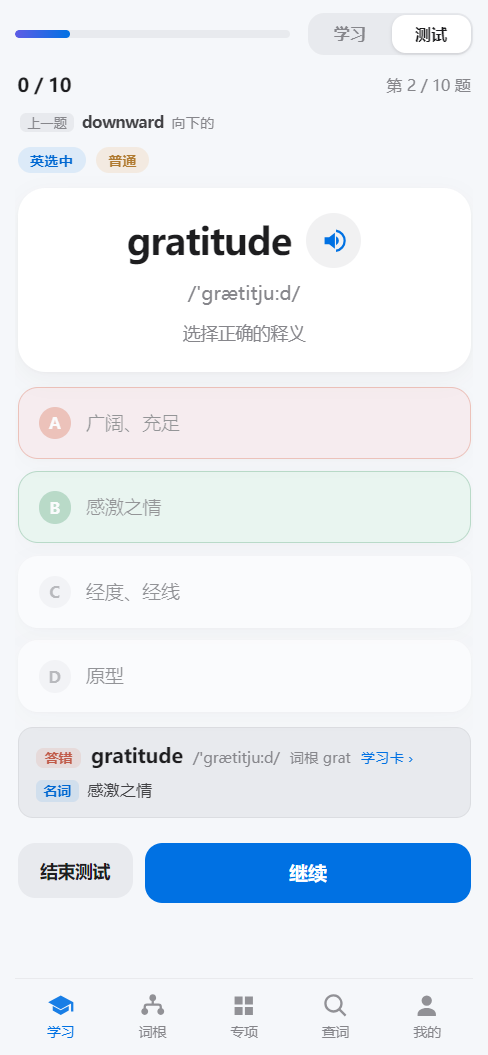
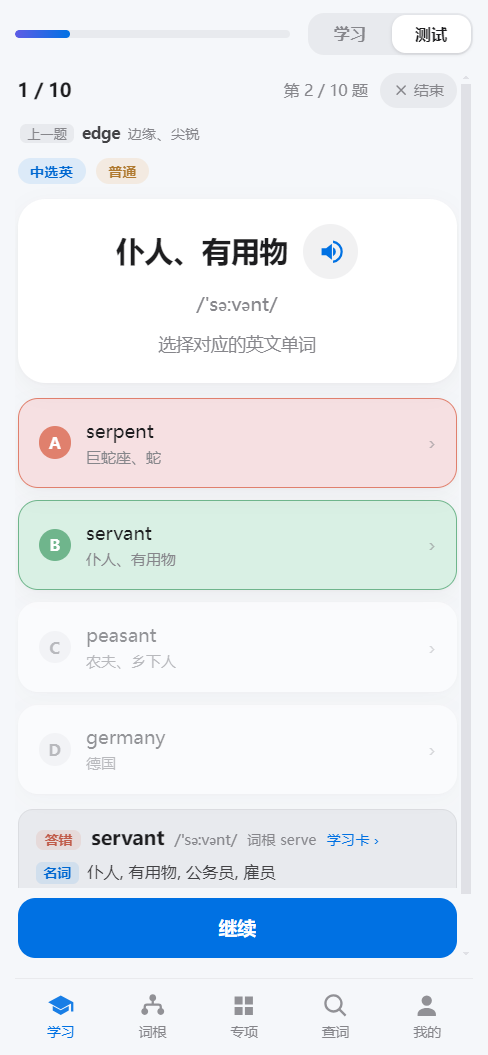
Document provider picker and quiz exit redesign

diff --git a/DEVELOPMENT.md b/DEVELOPMENT.md
@@ -606,6 +606,18 @@
 
 **交付**：`android-28`（target `7df96ee`，CI run 43419414001 成功，Range 复核 `com.glance.app` / `versionCode 28` / `versionName 1.0.6+28`，证书 SHA-256 `82:F7:…:C9:AF`，APK 13,169,840 字节）。
 
+### 8.19 词典服务商选择器与测试结束按钮重做 ✅
+
+**问题**：`我的 → 词典 → 服务商` 仍使用浏览器原生 `<select>` 下拉，样式与整体 UI 脱节；测试进行中「结束测试」与主按钮挤在卡面底部的 sticky 操作条里，视觉突兀。
+
+**实现**
+
+- 服务商选择改为二级底部弹层：`#settings-sheet` 内改为可点行（服务商名 + 推荐/Key 状态 + 「切换 ›」胶囊），点击打开 `#dict-provider-sheet`（`.sheet-nested`，`z-index 62` / 遮罩 60），设置面板保持在下层；`openNestedSheet` / `closeNestedSheet` 与主弹层互斥，遮罩、X、Esc 只关上层，关闭动画带 280ms 定时器并在重开时清理。
+- 服务商卡片展示字形标记（中 / EN / MW / {}）、名称、`推荐 / 免 Key / 需 Key / 自定义` 徽章、能力说明与右侧选中圆点；选中即写入 `Store.setDictConfig({ provider })`，同步触发 `syncDictProviderUi()`，按需显示 API Key / 自定义地址并更新底部说明。
+- 测试页把「结束测试」移出卡面操作条，收进顶部 `.quiz-head` 右侧的「✕ 结束」小胶囊；`.quiz-actions` 默认隐藏，仅在答错需要「继续 / 查看结果」时显示整行主按钮，答对自动跳题时保持无操作条。
+
+**验证（CDP 实操，390×844 @2x 与 360×800 @2x）**：服务商弹层正确叠在设置面板之上，四张卡片信息完整、无横向溢出；切换 MW 后显示 Key 输入并隐藏地址，切换自定义显示地址，切回中英词典恢复推荐态且写入持久化；遮罩 / X / Esc 均只关闭上层并保留设置面板；两次快速开合不出现被旧定时器隐藏的问题。测试页顶部「✕ 结束」全程可见，未作答与答对时操作条为 `display:none`，答错显示整行「继续」；答对自动进入下一题，结束确认取消后停留原题、确认后进入结果页；`node --check app/js/app.js` 通过，无控制台错误。截图更新 `quiz-session.png`，新增 `dict-provider.png`。
+
 ---
 
 ## 9. 关键约束与注意事项
@@ -624,6 +636,7 @@
 
 | 提交 | 内容 |
 |---|---|
+| `a99523d` | 词典服务商改成二级底部弹层卡片选择（推荐/Key 徽章 + 能力说明）；测试「结束」收进顶部胶囊，操作条仅答错时显示 |
 | `7df96ee` | 自定义词书导入修复：底部常驻入口 + 空状态、Android 文件输入挂载 DOM、CSV/BOM/表头/去重与重名处理 |
 | `55356ef` | 「我的」头像与昵称：256px 方形裁剪 + WebP 压缩、仅存本机，随备份导出/覆盖导入恢复 |
 | `72ab21a` | 测试流程重做：设置收进齿轮面板、入口只留开始；答对自动跳题、答错展示全部义项与可点开的选项单词、上一题回顾 |

diff --git a/README.md b/README.md
@@ -52,6 +52,10 @@
 | --- | --- |
 | <img src="docs/screenshots/settings.png" width="280" alt="设置分类与主题风格" /> | <img src="docs/screenshots/dictionary.png" width="280" alt="词典卡片" /> |
 
+| 词典服务商 |
+| --- |
+| <img src="docs/screenshots/dict-provider.png" width="280" alt="底部弹出的服务商选择器：推荐标记、Key 状态、能力说明与当前选中状态" /> |
+
 | 纸白主题 | 樱粉主题 |
 | --- | --- |
 | <img src="docs/screenshots/theme-paper.png" width="280" alt="纸白主题" /> | <img src="docs/screenshots/theme-sakura.png" width="280" alt="樱粉主题" /> |
@@ -74,7 +78,7 @@
 
 | 答错解析 |
 | --- |
-| <img src="docs/screenshots/quiz-session.png" width="280" alt="答错后显示全部词义、上一题回顾与其他选项释义" /> |
+| <img src="docs/screenshots/quiz-session.png" width="280" alt="右上角独立「结束」按钮；答错后显示全部词义、上一题回顾与其他选项释义，底部仅保留继续" /> |
 
 | 背景图片 |
 | --- |
